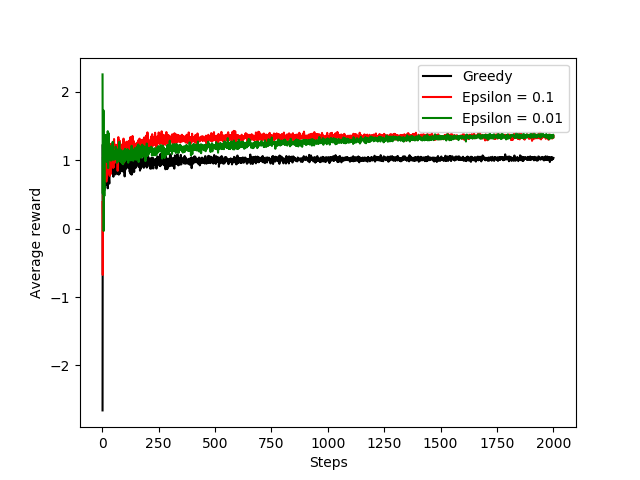
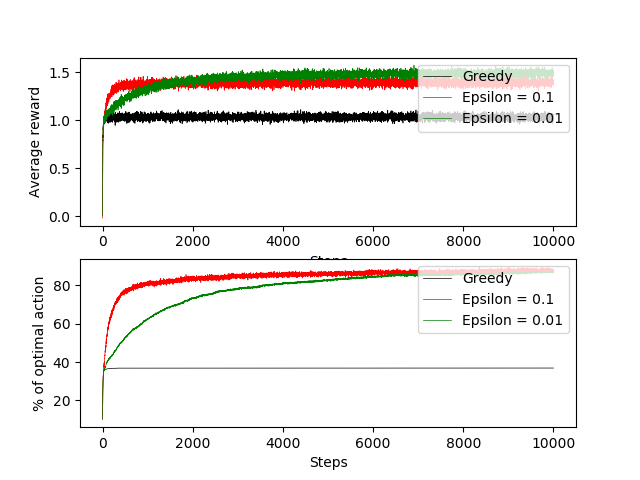
added percentage of optimal action taken

diff --git a/book-chapters/chapter02/runner.py b/book-chapters/chapter02/runner.py
@@ -10,8 +10,8 @@ if __name__ == '__main__':
     # random_exp.handle_results()
 
     action_value_method = greedy
-    max_runs = 10000
-    max_steps = 2000
+    max_runs = 2000
+    max_steps = 10000
     number_of_arms = 10
     step_size = None
 
@@ -28,8 +28,22 @@ if __name__ == '__main__':
     epsilon_001_res = epsilon_001_exp.get_results()
 
     x = np.arange(1, max_steps + 1, 1, dtype='int32')
-    plt.plot(x, greedy_res, 'k', x, epsilon_01_res, 'r', x, epsilon_001_res, 'g')
+
+    plt.subplot(2, 1, 1)
+    lines = plt.plot(x, greedy_res[1], 'k', x, epsilon_01_res[1], 'r', x, epsilon_001_res[1], 'g')
+    plt.setp(lines[0], linewidth=0.5)
+    plt.setp(lines[1], linewidth=0.5)
+    plt.setp(lines[2], linewidth=0.5)
     plt.ylabel('Average reward')
+    plt.xlabel('Steps')
+    plt.legend(('Greedy', 'Epsilon = 0.1', 'Epsilon = 0.01'), loc='upper right')
+
+    plt.subplot(2, 1, 2)
+    lines = plt.plot(x, greedy_res[0] * 100.0, 'k', x, epsilon_01_res[0] * 100.0, 'r', x, epsilon_001_res[0] * 100.0, 'g')
+    plt.setp(lines[0], linewidth=0.5)
+    plt.setp(lines[1], linewidth=0.5)
+    plt.setp(lines[2], linewidth=0.5)
+    plt.ylabel('% of optimal action')
     plt.xlabel('Steps')
     plt.legend(('Greedy', 'Epsilon = 0.1', 'Epsilon = 0.01'), loc='upper right')
 

diff --git a/book-chapters/chapter02/exp.py b/book-chapters/chapter02/exp.py
@@ -62,23 +62,28 @@ class GreedyBanditExperiment(BanditExperiment):
             environment = KArmedTestbed(self.number_of_arms)
             agent = EpsilonGreedyAgent(self.number_of_arms, self.action_value_method, self.epsilon, self.step_size)
 
+            optimal_action = np.argmax(environment.action_value)
+
             for i in np.arange(self.max_steps):
                 current_state = environment.get_current_state()
                 next_action = agent.get_action(current_state)
                 reward = environment.do_action(next_action)
                 agent.update_est_value(next_action, reward)
 
+                if optimal_action == next_action:
+                    self.optimality[i] += 1
                 self.avg_reward[i] += reward
 
             if k % 100 == 0:
                 print '.',
                 sys.stdout.flush()
 
+        self.optimality /= self.max_runs
         self.avg_reward /= self.max_runs
         print 'Done'
 
     def get_results(self):
-        return self.avg_reward
+        return self.optimality, self.avg_reward
 
     def handle_results(self):
         plot_results(np.arange(1, self.max_steps + 1, 1), self.avg_reward, 'greedy_exp_%d_.png' % self.epsilon)
